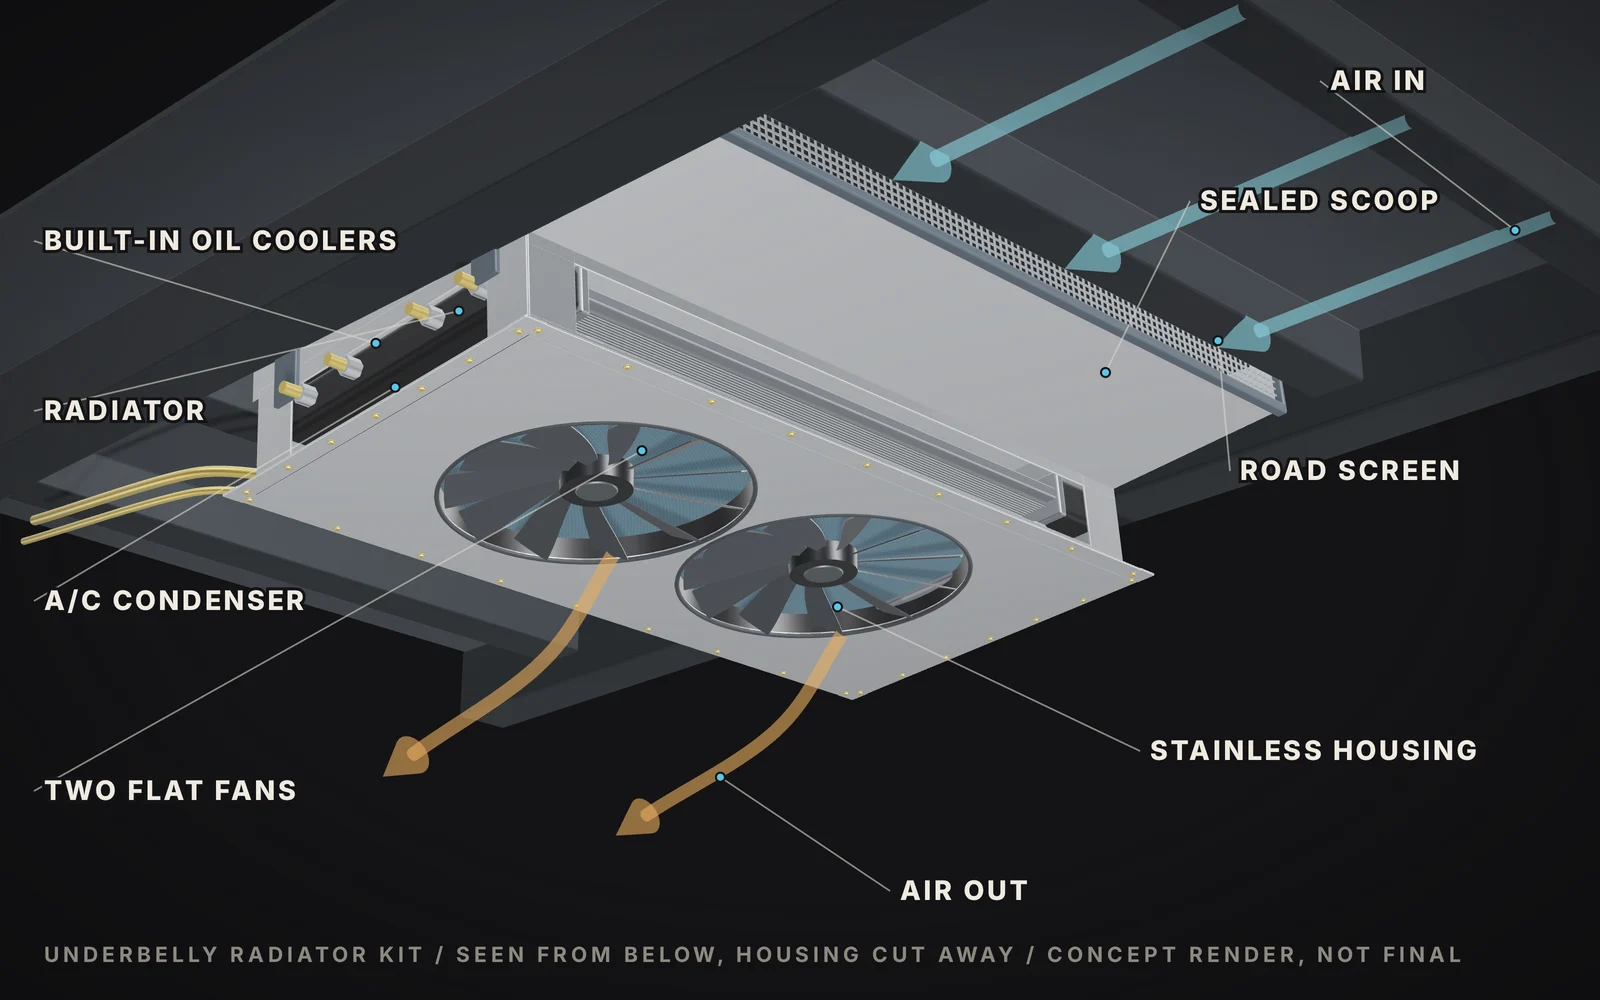
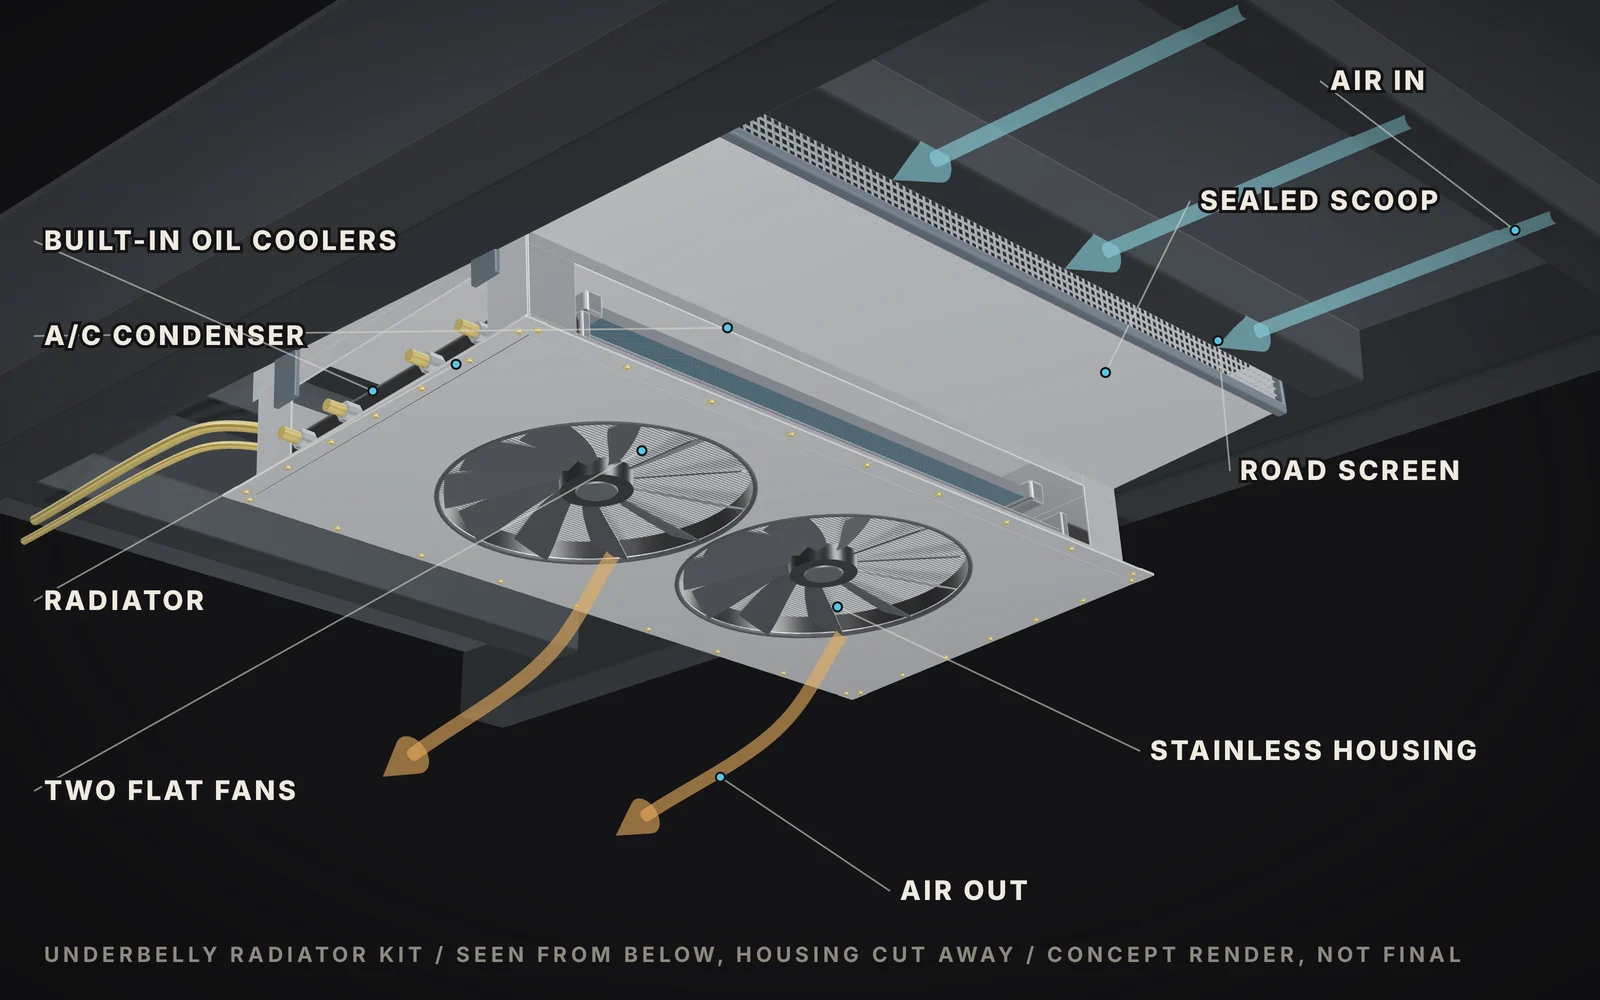
Underbelly kit: condenser on top, first in the airflow

diff --git a/index.html b/index.html
@@ -207,12 +207,12 @@ footer .ig{color:var(--cyan);font-weight:800;text-decoration:none;letter-spacing
     </div>
     <div class="kits">
       <article class="kit rise">
-        <img class="kimg" src="img/kit-underbelly.webp" alt="Concept render of the underbelly radiator kit seen from below with the housing cut away: a bent stainless housing around a radiator with built-in oil coolers, an A/C condenser stacked under it and two flat fans on the bottom, with a sealed scoop and road screen" loading="lazy">
+        <img class="kimg" src="img/kit-underbelly.webp" alt="Concept render of the underbelly radiator kit seen from below with the housing cut away: a bent stainless housing around a radiator with built-in oil coolers, an A/C condenser stacked on top of it and two flat fans on the bottom, with a sealed scoop and road screen" loading="lazy">
         <span class="kicker">Cooling</span>
         <h3 class="d">Underbelly radiator kit</h3>
         <p>Cooling for 300+HP, tucked under the bus.</p>
         <ul>
-          <li>Full-size radiator with the A/C condenser stacked under it</li>
+          <li>Full-size radiator with the A/C condenser stacked on top, first in the airflow</li>
           <li>Built-in transmission and engine oil coolers</li>
           <li>Whole stack enclosed in a bent stainless housing</li>
           <li>Sealed scoop and road screen, with two low-profile fans pulling air down through the stack</li>
